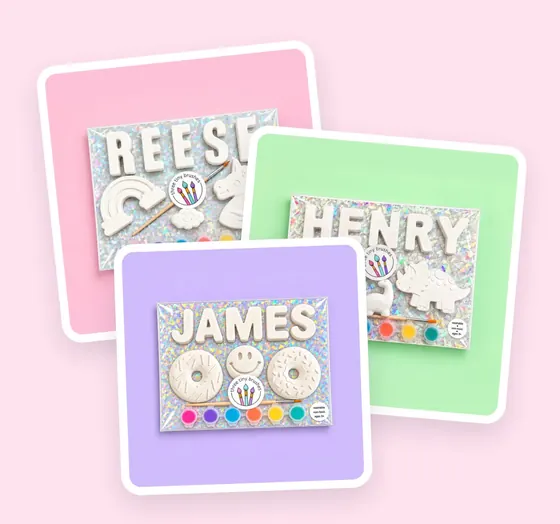
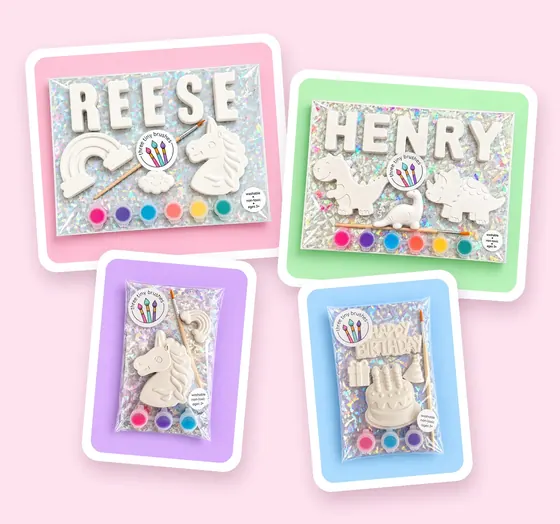
Hero collage: 2 name kits + 2 party packs; alt text mentions party packs

diff --git a/index.html b/index.html
@@ -54,13 +54,13 @@
    <p class="sub">Kids' paint kits, including name kits made with your child's name. Local pickup in North Augusta or shipping.</p>
    <div class="row"><a class="btn btn-p" href="https://threetinybrushes.square.site/">Shop the kits</a><a class="btn btn-s" href="#pickup">Pickup &amp; shipping</a></div>
    <ul class="pills" aria-label="Highlights">
-    <li class="pill" style="background:var(--pink-t)"><span aria-hidden="true">🎨</span> Personalized name kits, sibling kits and party packs</li>
+    <li class="pill" style="background:var(--pink-t)"><span aria-hidden="true">🎨</span> Name kits, sibling kits &amp; party packs</li>
     <li class="pill" style="background:var(--mint-t)"><span aria-hidden="true">🧼</span> Washable paint</li>
     <li class="pill" style="background:var(--mint-t)"><span aria-hidden="true">📍</span> Local pickup</li>
     <li class="pill" style="background:var(--lav-t)"><span aria-hidden="true">📦</span> Shipping</li>
    </ul>
   </div>
-  <div class="hero-img"><picture><source type="image/webp" srcset="img/hero-kits-560.webp 560w, img/hero-kits-800.webp 800w, img/hero-kits-1100.webp 1100w" sizes="(min-width:1160px) 480px, (min-width:900px) 40vw, (min-width:600px) 560px, calc(100vw - 40px)"><img src="img/hero-kits-800.jpg" srcset="img/hero-kits-560.jpg 560w, img/hero-kits-800.jpg 800w, img/hero-kits-1100.jpg 1100w" sizes="(min-width:1160px) 480px, (min-width:900px) 40vw, (min-width:600px) 560px, calc(100vw - 40px)" width="1400" height="1310" alt="Three personalized paint name kits in white frames: Reese unicorn kit, Henry dino kit and James donut kit" fetchpriority="high" decoding="async"></picture></div>
+  <div class="hero-img"><picture><source type="image/webp" srcset="img/hero-kits-560.webp 560w, img/hero-kits-800.webp 800w, img/hero-kits-1100.webp 1100w" sizes="(min-width:1160px) 480px, (min-width:900px) 40vw, (min-width:600px) 560px, calc(100vw - 40px)"><img src="img/hero-kits-800.jpg" srcset="img/hero-kits-560.jpg 560w, img/hero-kits-800.jpg 800w, img/hero-kits-1100.jpg 1100w" sizes="(min-width:1160px) 480px, (min-width:900px) 40vw, (min-width:600px) 560px, calc(100vw - 40px)" width="1400" height="1310" alt="Personalized paint name kits for Reese (unicorn) and Henry (dino), plus Unicorn &amp; Rainbow and Happy Birthday party packs" fetchpriority="high" decoding="async"></picture></div>
  </div>
 </div>
 

diff --git a/tools/make_hero_collage.py b/tools/make_hero_collage.py
@@ -1,0 +1,27 @@
+# Builds the hero collage (2 name kits + 2 party packs, Oct 12 2026) -> site-revamp/images/hero-kits-collage.jpg; then resize to img/hero-kits-{560,800,1100}.
+from PIL import Image,ImageDraw,ImageFilter
+S='/workspace/threetinybrushes/site-revamp/images/';P='/workspace/threetinybrushes/incoming/2026-10-06-party-packs/'
+old=Image.open(S+'hero-kits-collage.jpg').convert('RGB');bg=old.getpixel((10,10))
+W,H=1400,1310;c=Image.new('RGBA',(W,H),bg+(255,))
+def card(path,w,h,crop=None,border=22,r=44):
+    im=Image.open(path).convert('RGB')
+    if crop: im=im.crop(crop)
+    iw,ih=w-2*border,h-2*border
+    s=max(iw/im.width,ih/im.height);im=im.resize((round(im.width*s),round(im.height*s)),Image.LANCZOS)
+    l=(im.width-iw)//2;t=(im.height-ih)//2;im=im.crop((l,t,l+iw,t+ih))
+    cd=Image.new('RGBA',(w,h),(0,0,0,0));m=Image.new('L',(w,h));ImageDraw.Draw(m).rounded_rectangle((0,0,w-1,h-1),r,fill=255)
+    cd.paste((255,255,255,255),(0,0),m)
+    m2=Image.new('L',(iw,ih));ImageDraw.Draw(m2).rounded_rectangle((0,0,iw-1,ih-1),r-14,fill=255)
+    cd.paste(im,(border,border),m2);return cd
+def place(cd,x,y,ang):
+    cd=cd.rotate(ang,Image.BICUBIC,expand=True)
+    m=Image.new('L',(W,H));m.paste(cd.split()[3].point(lambda v:int(v*0.28)),(x+6,y+24))
+    m=m.filter(ImageFilter.GaussianBlur(22));sh=Image.new('RGBA',(W,H),(120,60,90,255));sh.putalpha(m)
+    c.alpha_composite(sh);c.alpha_composite(cd,(x,y))
+# name kits: crop to the package area (pkg ~145..895 x 225..785 of 1024 scale on 1600 -> *1.5625)
+k=lambda a:(int(a[0]*1.5625),int(a[1]*1.5625),int(a[2]*1.5625),int(a[3]*1.5625))
+place(card(S+'unicorn-wishes-personalized-paintable-name-kit.jpg',640,560,k((70,150,970,880))),60,80,4)
+place(card(S+'dino-mite-personalized-paintable-name-kit.jpg',620,545,k((70,150,970,880))),690,170,-4)
+place(card(P+'party-pack-1.png',400,530),200,620,-5)
+place(card(P+'happy-birthday-pack.png',400,530),740,670,5)
+c.convert('RGB').save('hero-kits-collage.jpg',quality=92)

diff --git a/tools/build_html.py b/tools/build_html.py
@@ -172,7 +172,7 @@ html=f'''<!doctype html>
     <li class="pill" style="background:var(--lav-t)"><span aria-hidden="true">📦</span> Shipping</li>
    </ul>
   </div>
-  <div class="hero-img">{pic("hero-kits","Three personalized paint name kits in white frames: Reese unicorn kit, Henry dino kit and James donut kit","(min-width:1160px) 480px, (min-width:900px) 40vw, (min-width:600px) 560px, calc(100vw - 40px)",lazy=False,w=1400,h=1310,variants=(560,800,1100))}</div>
+  <div class="hero-img">{pic("hero-kits","Personalized paint name kits for Reese (unicorn) and Henry (dino), plus Unicorn &amp; Rainbow and Happy Birthday party packs","(min-width:1160px) 480px, (min-width:900px) 40vw, (min-width:600px) 560px, calc(100vw - 40px)",lazy=False,w=1400,h=1310,variants=(560,800,1100))}</div>
  </div>
 </div>
 
